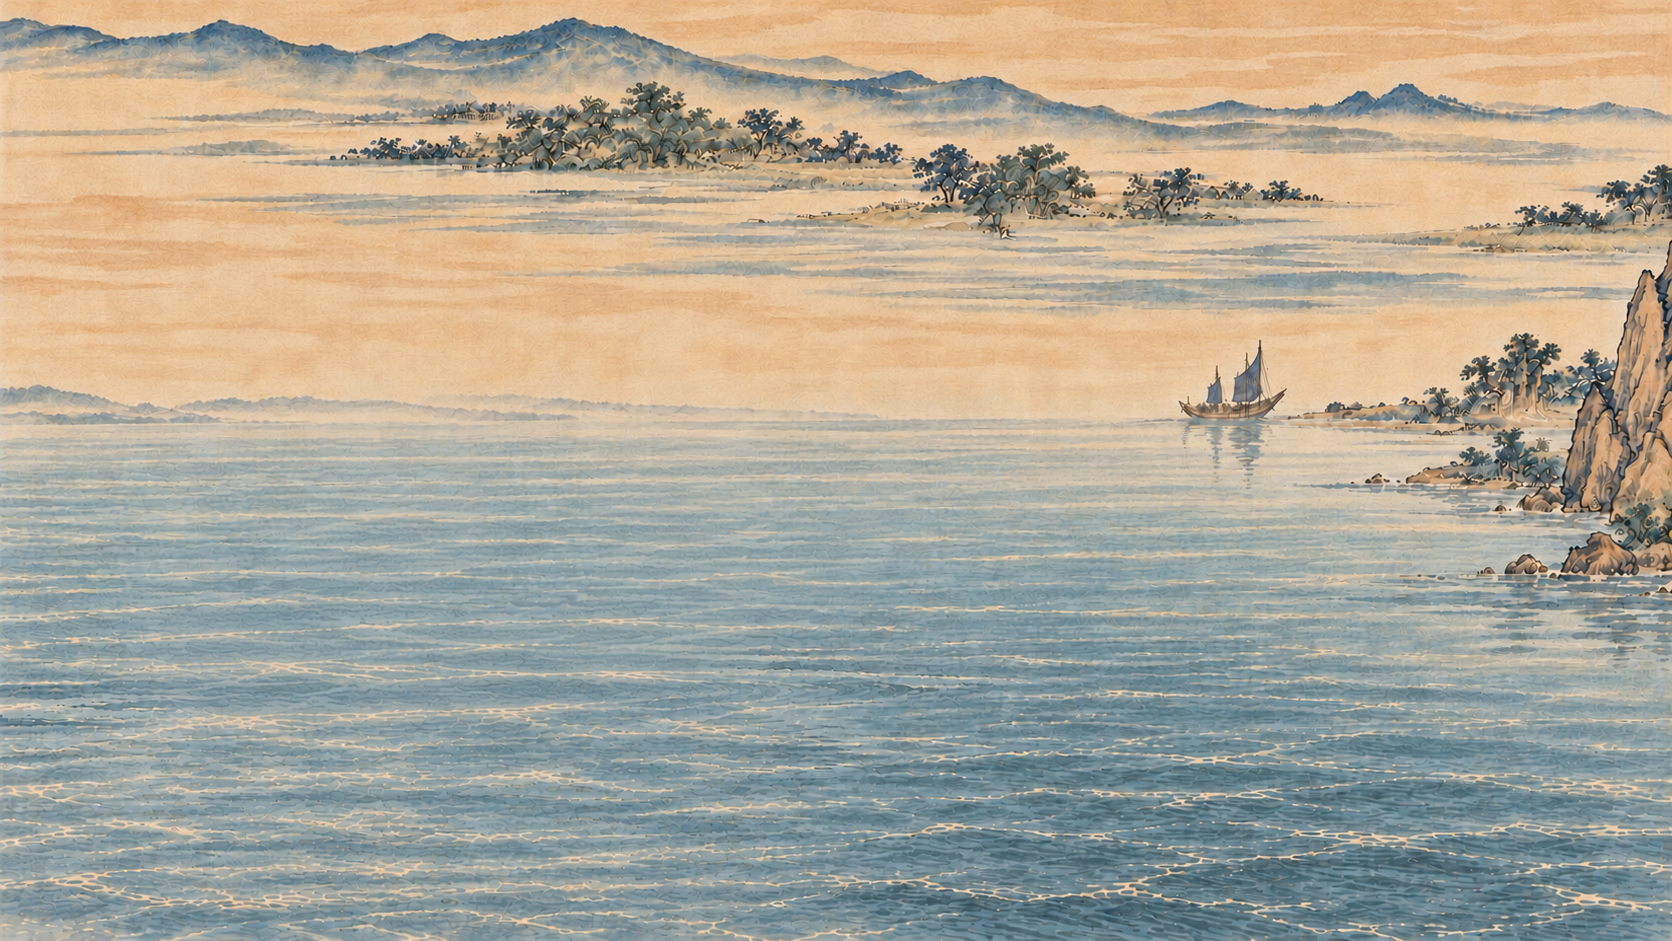
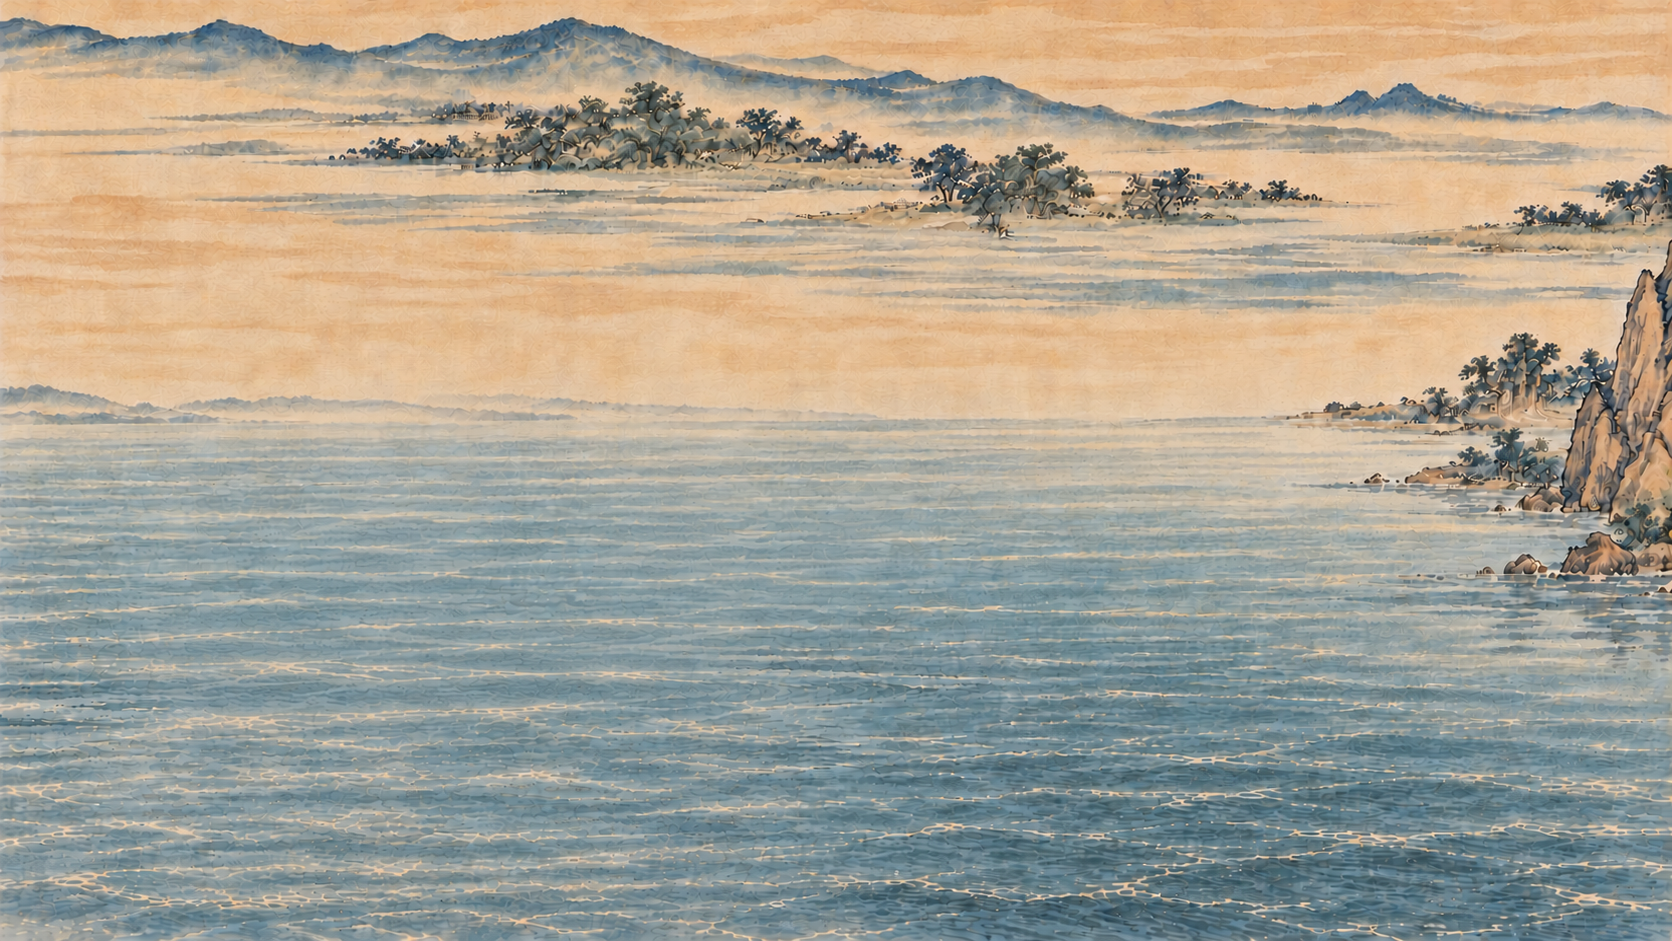
tonghai

diff --git a/js/app.js b/js/app.js
@@ -39,9 +39,17 @@ const ui={stage:byId('stage'),nav:byId('chapterNav'),bgs:byId('backgrounds'),act
 const state={current:0,unlocked:0,phase:[0,0,0,0,0],completed:[false,false,false,false,false],travel:[0,0,0,0,0],started:false,ready:false,sound:false,action:null,transition:null,lastFocus:null,sceneStart:performance.now()};
 let water={update(){}};
 const images={};
-const assets={boat1:'ships/01-向右货舟.png',boat2:'ships/02-靠岸货船.png',boat4:'ships/04-行航帆船.png',boat5:'ships/05-远行海船.png',small:'ships/04-小舟.png',wake:'sprites/船行水纹.png',workers:'sprites/02-空手与搬货-4列2行.png',loaders:'sprites/03-装卸-4列2行.png'};
+const assets={boat1:'ships/01-向右货舟.png',boat2:'ships/02-靠岸货船.png',boat4:'ships/04-行航帆船.png',boat5:'ships/05-远行海船.png',distantBoat:'ships/05-远处双帆小舟.png',small:'ships/04-小舟.png',wake:'sprites/船行水纹.png',workers:'sprites/02-空手与搬货-4列2行.png',loaders:'sprites/03-装卸-4列2行.png'};
 for(let i=1;i<=5;i++)assets['bg'+i]=`backgrounds/0${i}-净底图.png`;
-function loadImage(key,path){return new Promise((resolve,reject)=>{const im=new Image();im.onload=()=>{images[key]=im;resolve();};im.onerror=()=>reject(new Error(path));im.src=A+path;});}
+function loadImage(key,path){return new Promise((resolve,reject)=>{const im=new Image();im.onload=()=>{
+ if(key==='distantBoat'){
+  const sprite=document.createElement('canvas');sprite.width=im.width;sprite.height=im.height;
+  const sc=sprite.getContext('2d',{willReadFrequently:true});sc.drawImage(im,0,0);
+  const pixels=sc.getImageData(0,0,sprite.width,sprite.height);
+  for(let k=3;k<pixels.data.length;k+=4){const a=pixels.data[k];pixels.data[k]=a<70?0:Math.min(255,(a-70)*255/180);}
+  sc.putImageData(pixels,0,0);images[key]=sprite;
+ }else images[key]=im;
+ resolve();};im.onerror=()=>reject(new Error(path));im.src=A+path;});}
 const loading=Promise.all(Object.entries(assets).map(([k,p])=>loadImage(k,p)));
 function setup(){
  ui.bgs.innerHTML=Array.from({length:5},(_,i)=>`<img class="bg${i===0?' active':''}" data-bg="${i}" src="${A+assets['bg'+(i+1)]}" alt="第${i+1}幕：${SCENES[i].title}">`).join('');
@@ -80,7 +88,7 @@ function perform(){
  if(i===0)runAction('小舟向右启程…',8500,()=>{complete();navigate(1);});
  else if(i===1){
   if(state.phase[i]===0){citySound();runAction('两艘船缓缓靠岸…',10000,()=>{state.phase[i]=1;state.travel[i]=0;updateUI();});}
-  else{state.phase[i]=2;runAction('空手前往码头，取货后沿原路返回…',26000,complete);}
+  else{state.phase[i]=2;runAction('沿岸道取货，沿原路返回…',26000,complete);}
  }else if(i===2){playCue('rope',.13);runAction('搬运、装载与系缆…',9000,complete);}
  else if(i===3)runAction('扬帆驶过双塔…',11000,complete);
  else runAction('船帆渐远，驶向江海…',20000,complete);
@@ -100,6 +108,12 @@ function drawBoat(ctx,key,cx,base,w,h,alpha=1,moving=false){
  if(moving){ctx.save();ctx.globalAlpha*=.35;ctx.drawImage(images.wake,-w*.55,-6,w*1.1,16);ctx.restore();}
  ctx.drawImage(im,-w/2,-h,w,h);ctx.restore();
 }
+function restoreForegroundTree(ctx){
+ const bg=images.bg2;if(!bg)return;
+ ctx.save();ctx.beginPath();
+ [[618,286],[645,246],[681,219],[726,228],[764,257],[778,302],[754,348],[730,387],[704,445],[670,474],[637,444],[621,388]].forEach(([x,y],n)=>n?ctx.lineTo(x,y):ctx.moveTo(x,y));
+ ctx.closePath();ctx.clip();ctx.drawImage(bg,0,0,1000,562.5);ctx.restore();
+}
 function drawActors(now){
  const canvas=ui.actors,ctx=canvas.getContext('2d'),r=ui.stage.getBoundingClientRect(),dpr=Math.min(devicePixelRatio||1,1.5);
  const w=Math.round(r.width*dpr),h=Math.round(r.height*dpr);if(canvas.width!==w||canvas.height!==h){canvas.width=w;canvas.height=h;}
@@ -109,7 +123,7 @@ function drawActors(now){
  if(state.transition?.snapshot){ctx.save();ctx.globalAlpha=1-weight;ctx.drawImage(state.transition.snapshot,0,0,1000,562.5);ctx.restore();}
  ctx.save();ctx.globalAlpha=weight;
  const bob=moving?Math.sin(local*1.25)*.6:0;
- if(i===0)drawBoat(ctx,'boat1',lerp(530,1150,smooth(p)),445+bob,213,82,1,moving);
+ if(i===0)drawBoat(ctx,'boat1',lerp(530,893,smooth(p)),445+bob,213,82,1,moving);
  if(i===1){
   const dock=phase===0?smooth(p):1;
   drawBoat(ctx,'boat2',lerp(1110,903,smooth(Math.max(0,(dock-.12)/.88))),384,128,94,1,moving&&phase===0);
@@ -122,21 +136,32 @@ function drawActors(now){
     if(a.alpha<=0)continue;
     const frame=Math.floor(elapsed*5+a.j)%4;
     if(a.picking)drawAtlas(ctx,'loaders',Math.min(2,Math.floor(a.pickup*3)),0,4,2,a.x,a.y,a.height,a.height,a.alpha);
-    else drawAtlas(ctx,'workers',frame,a.returning?1:0,4,2,a.x,a.y,a.height,a.height,a.alpha,a.dx<0);
+    else drawAtlas(ctx,'workers',frame,a.returning?1:0,4,2,a.x,a.y,a.height,a.height,a.alpha,a.returning?a.dx>0:a.dx<0);
    }
+   restoreForegroundTree(ctx);
   }
  }
- if(i===2){const elapsed=moving?(now-state.action.start)/1000:0;for(let j=0;j<6;j++){
-  const x=[175,228,307,361,502,553][j]+(moving?Math.sin(elapsed*.8+j*1.4)*7:0),y=[389,412,405,402,405,411][j];
-  drawAtlas(ctx,'loaders',moving?Math.floor(elapsed*2.5+j)%4:0,j%2,4,2,x,y,j<2?27:31,j<2?36:41);
- }}
+ if(i===2){const elapsed=moving?(now-state.action.start)/1000:0;
+  const workers=[{x:175,y:389,dx:23,dy:-5},{x:307,y:405,dx:42,dy:-7},{x:361,y:402,dx:32,dy:-3},{x:502,y:405,dx:37,dy:-8},{x:553,y:411,dx:30,dy:-5}];
+  const trip=p<.5?smooth(p*2):smooth((1-p)*2);
+  workers.forEach((worker,n)=>{
+   const x=worker.x+(moving?worker.dx*trip:0),y=worker.y+(moving?worker.dy*trip:0);
+   const frame=moving?Math.floor(elapsed*3+n)%4:0;
+   drawAtlas(ctx,'loaders',frame,n%2,4,2,x,y,n===0?27:31,n===0?36:41);
+  });
+ }
  if(i===3){drawBoat(ctx,'boat4',lerp(604,422,smooth(p)),525+bob,185,83,1,moving);drawBoat(ctx,'small',lerp(822,905,smooth(p)),399,95,39,1,moving);}
- if(i===4){const fade=1-smooth((p-.6)/.4);drawBoat(ctx,'boat5',lerp(300,730,p),476-180*p,lerp(375,60,p),lerp(230,38,p),fade,moving);}
+ if(i===4){
+  const fade=1-smooth((p-.6)/.4);
+  ctx.save();ctx.globalAlpha*=1-smooth((p-.35)/.6);
+  ctx.drawImage(images.distantBoat,687+27*p,194-7*p,113-20*p,88-15*p);ctx.restore();
+  drawBoat(ctx,'boat5',lerp(300,730,p),476-180*p,lerp(375,60,p),lerp(230,38,p),fade,moving);
+ }
  ctx.restore();
 }
 function tick(now){
  if(state.action&&progress(now)>=1)finishAction();
- if(state.transition&&now-state.transition.start>=state.transition.duration){const intro=state.transition.intro;state.transition=null;updateUI();if(state.current===4&&state.completed[4]){ui.ending.hidden=false;ui.ending.classList.add('visible');}if(intro||(state.current===1&&state.phase[1]===0&&!state.completed[1]))perform();}
+ if(state.transition&&now-state.transition.start>=state.transition.duration){state.transition=null;updateUI();if(state.current===4&&state.completed[4]){ui.ending.hidden=false;ui.ending.classList.add('visible');}}
  const t=state.transition,weight=t?smooth((now-t.start)/t.duration):1;
  [...ui.bgs.children].forEach((b,n)=>{b.style.transition='none';b.style.zIndex=n===state.current?'1':'0';b.style.opacity=n===state.current?weight:t&&n===t.from?1:0;});
  // During the dissolve use only the blended paintings, so old water never overlays incoming land.

diff --git a/style-responsive.css b/style-responsive.css
@@ -1,5 +1,5 @@
-/* Full-width 1920 × 1080 composition, scaled proportionally on smaller screens. */
-.visual-area{width:min(100%,1920px);height:auto;aspect-ratio:16/9;min-height:0;max-height:none;margin:0 auto}
+/* Keep the navigation, painting, and action prompts visible in one desktop viewport. */
+.visual-area{width:min(100%,1920px,calc((100svh - 250px)*16/9));height:auto;aspect-ratio:16/9;min-height:0;max-height:none;margin:0 auto}
 .stage{inset:0;width:100%;height:100%;aspect-ratio:16/9;max-height:none;transform:none}
 .intro{background-image:linear-gradient(#0d2529a8,#0d2529d9),url('assets/backgrounds/01-净底图.png')}
 .intro-overline{margin-top:0}
@@ -7,9 +7,9 @@
 .hotspot{font-size:clamp(11px,1vw,17px);padding:8px 13px}
 .hotspot-icon{width:1.65em;height:1.65em;font-size:.85em}
 .transitioning .scene-count,.transitioning .scene-caption{visibility:hidden}
-.topbar{height:70px}
-.control-area{padding:18px clamp(20px,4vw,76px);gap:20px}
+.topbar{height:70px;position:sticky;top:0}
+.control-area{min-height:170px;padding:12px clamp(20px,4vw,76px) 14px;gap:20px}
 .chapter-copy h1{font-size:clamp(24px,2.1vw,36px);margin:7px 0}
 @keyframes hotspots-in{from{opacity:0}to{opacity:1}}
-@media(max-width:850px){.topbar{height:auto}.visual-area{width:100%;height:auto;min-height:0;aspect-ratio:16/9}.stage{width:100%;height:100%}.hotspot{padding:4px 6px;font-size:10px}.hotspot-icon{display:none}.scene-count{right:10px;top:10px;font-size:10px}.scene-caption{left:10px;bottom:8px;font-size:10px}.control-area{padding:16px 20px}}
+@media(max-width:850px){.topbar{height:auto}.visual-area{width:100%;height:auto;min-height:0;aspect-ratio:16/9}.stage{width:100%;height:100%}.hotspot{padding:4px 6px;font-size:10px}.hotspot-icon{display:none}.scene-count{right:10px;top:10px;font-size:10px}.scene-caption{left:10px;bottom:8px;font-size:10px}.control-area{min-height:0;padding:16px 20px}}
 @media(prefers-reduced-motion:reduce){.hotspot-layer{animation:none}}

diff --git a/js/motion.js b/js/motion.js
@@ -1,12 +1,13 @@
-// All positions use a 1000 × 562.5 design grid (scaled to 1920 × 1080).
+// All positions use a 1000 × 562.5 design grid, scaled with the painting.
 export const clamp = p => Math.max(0, Math.min(1, p));
 export const smooth = p => { p = clamp(p); return p*p*(3-2*p); };
 export const lerp = (a,b,p) => a+(b-a)*p;
 
-// Follow the shore roads around the tea canopy, then descend to the stone steps.
+// Two workers leave the dock, pick up goods in the open market, then return.
+// The third worker keeps the earlier short stone-step route.
 export const cargoRoutes = [
-  [[249,487],[311,445],[333,403],[325,352],[346,318],[397,282],[568,278],[698,250],[771,273],[799,306],[817,341],[839,377]],
-  [[406,517],[449,470],[368,433],[349,381],[338,337],[375,295],[545,279],[682,250],[762,269],[793,300],[816,337],[839,377]],
+  [[830,379],[803,388],[775,402],[750,431],[713,467],[628,474],[535,469],[445,458],[371,442],[332,420],[326,397]],
+  [[833,391],[805,399],[777,416],[746,452],[702,481],[625,486],[540,479],[456,467],[397,453],[373,433],[371,414]],
   [[846,234],[824,260],[803,282],[793,304],[810,329],[828,355],[841,381]]
 ];
 export function routePoint(points, progress) {
@@ -27,7 +28,7 @@ export function cargoPose(progress,index) {
   const point=routePoint(cargoRoutes[index],travel);
   return {...point,returning,picking:p>=.44&&p<=.53,
     pickup:clamp((p-.44)/.09),
-    height:lerp(39,85,clamp((point.y-234)/283)),
+    height:lerp(36,75,clamp((point.y-234)/283)),
     alpha:smooth(p/.04)*(1-smooth((p-.95)/.05)),
     p};
 }

diff --git a/index.html b/index.html
@@ -8,9 +8,9 @@
   <title>一江通海｜水木之间·生生瓯越</title>
   <link rel="icon" type="image/svg+xml" href="assets/favicon.svg">
   <link rel="stylesheet" href="style.css">
-  <link rel="stylesheet" href="style-responsive.css?v=20261011-2">
+  <link rel="stylesheet" href="style-responsive.css?v=20261011-3">
   <script type="importmap">{"imports":{"three":"https://cdn.jsdelivr.net/npm/three@0.186.0/build/three.module.js"}}</script>
-  <script type="module" src="js/app.js?v=20261011-2"></script>
+  <script type="module" src="js/app.js?v=20261011-3"></script>
 </head>
 <body>
 <div class="app" id="app">
